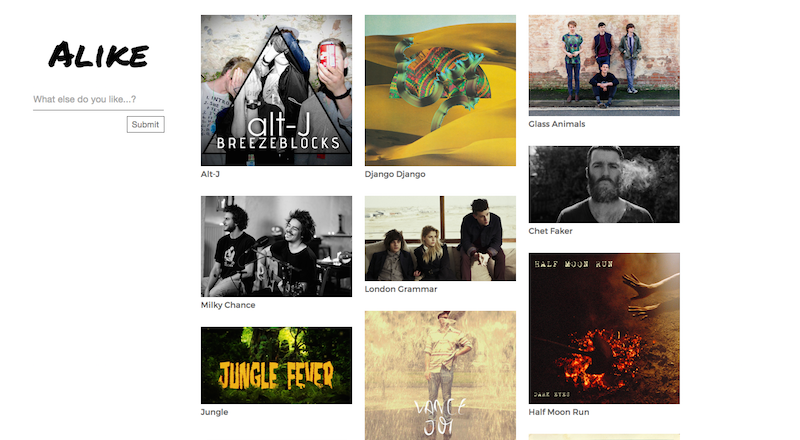
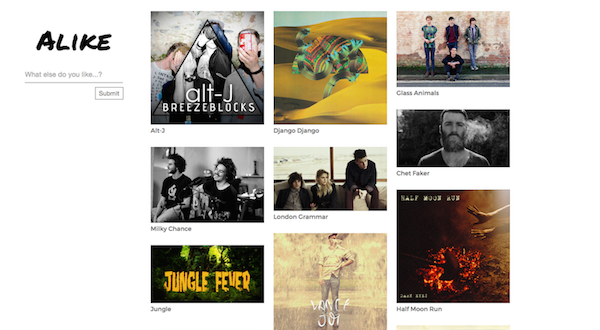
Styles and adds more projects

diff --git a/client/data/siteData.js b/client/data/siteData.js
@@ -10,7 +10,23 @@
 
     var service = { };
 
-    service.about = "I am full-stack JavaScript engineer passionate about building well-designed products that improve people's lives and am well versed with all stages of development, from initial product ideation to deployment."
+    service.about = "I am full-stack JavaScript engineer passionate about building well-designed products that improve people's lives. I'm well versed with all stages of development, from initial product ideation to deployment."
+
+    service.social = [
+      {
+        title: 'GitHub',
+        link: 'https://github.com/edoecohen'
+      },
+      {
+        title: 'LinkedIn',
+        link: 'https://www.linkedin.com/in/edoecohen'
+      },
+      {
+        title: 'Twitter',
+        link: 'https://twitter.com/edoecohen'
+      },
+
+    ]
 
     service.projects = [
       {
@@ -30,18 +46,52 @@
       {
         title:    'Live',
         details:  "Live is a mobile app for concert reviews. Users can rate live shows they've attended, provide reviews and find the best live acts.",
-        stack:    ['Ionic', 'Node', 'Postgres'],
+        stack:    ['Ionic', 'Node', 'Postgres', 'Spotify API'],
         link:     'http://livereviews.herokuapp.com/#/',
         pic:      '../client/assets/pics/placeit.jpg'
       },
       {
         title:    'Alike',
         details:  "Alike is a music, film and literature recommendation engine. Tell Alike your favorite film, musician or author and it will make suggestions of similar artworks and artists.",
-        stack:    ['jQuery', 'Masonry'],
-        link:     'http://livereviews.herokuapp.com/#/',
+        stack:    ['jQuery', 'Masonry', 'TasteKid API', 'Bing API'],
+        link:     'http://edoecohen.github.io/alike/',
         pic:      '../client/assets/pics/Alike_2.png'
       },
-      
+      {
+        title:    'Countries & Capitals',
+        details:  "Website providing information about countries and their capitals around the world.",
+        stack:    ['Angular', 'GeoNames API'],
+        link:     'http://edoecohen.github.io/countries/',
+        pic:      '../client/assets/pics/Countries.png'
+      },
+      {
+        title:    'Portfolio',
+        details:  "Small experiment using Masonry to showcase some of my recent work.",
+        stack:    ['jQuery', 'Masonry'],
+        link:     'http://edoecohen.github.io/portfolio/',
+        pic:      '../client/assets/pics/Portfolio.png'
+      },
+      {
+        title:    'InstaSearch',
+        details:  "InstaSearch allows you to quickly search Instagram for the most recent images of a given keyword.",
+        stack:    ['Angular', 'Instagram API'],
+        link:     'http://edoecohen.github.io/instasearch/',
+        pic:      '../client/assets/pics/Instasearch.png'
+      },
+      {
+        title:    'Zionism 101',
+        details:  "Colorful quiz testing the user's knowledge of Israel's historic leaders using the artwork of Amit Shimoni.",
+        stack:    ['jQuery'],
+        link:     'http://edoecohen.github.io/zionism-101/',
+        pic:      '../client/assets/pics/Zionism.png'
+      },
+      {
+        title:    'Shopping List',
+        details:  "Will simply make you want to shop.",
+        stack:    ['jQuery'],
+        link:     'http://edoecohen.github.io/shopping-list/',
+        pic:      '../client/assets/pics/Shopping.png'
+      },
 
 
     ];

diff --git a/client/home/home.html b/client/home/home.html
@@ -1,15 +1,23 @@
+<!-- ABOUT ME -->
 <section class='section'>
 	<h1>About Me</h1>
 	<p>{{ vm.data.about }}</p>
+	<div class='findMe'>
+		<p>You can find me here:</p>
+		<ul>
+			<li ng-repeat='social in vm.data.social'><a href="{{ social.link }}" target="_blank">{{ social.title }}</a></li>
+		</ul>
 </section>
 
+
+<!-- PROJECTS -->
 <section class='section' id='projects'>
 	<h1>Projects</h1>
 	<div ng-repeat='project in vm.data.projects' class='project'>
 		
 		<div class='pic'>
 			<a href='{{ project.link }}' target='_blank'>
-				<img ng-src='{{ project.pic }}' />
+				<img ng-src='{{ project.pic }}' ng-click='thisFun()' />
 			</a>
 		</div>
 		<div class='details'>
@@ -24,7 +32,7 @@
 
 <section class='section' id='experience'>
 	<h1>Experience</h1>
-	<div ng-repeat='project in vm.data.projects' class='project'>
+	<!-- <div ng-repeat='project in vm.data.projects' class='project'>
 		
 		<div class='pic'>
 			<a href='{{ project.link }}' target='_blank'>
@@ -38,5 +46,5 @@
 			</ul>
 			<p>{{ project.details }}</p>
 		</div>
-	</div>
+	</div> -->
 </section>

diff --git a/client/assets/styles/app.css b/client/assets/styles/app.css
@@ -66,6 +66,24 @@ a:hover, a:visited, a:focus {
   margin-left: 33%;
 }
 
+/* ABOUT ME */
+.findMe p, .findMe ul, .findMe ul li  {
+  display: inline-block;
+}
+
+.findMe ul {
+  padding-left: 0;
+  margin-left: 10px;
+}
+
+.findMe li {
+  margin-right: 15px;
+}
+
+.findMe li a {
+  color: #2F5271;
+}
+
 /* PROJECTS */
 .project {
   min-height: 230px;
@@ -76,6 +94,7 @@ a:hover, a:visited, a:focus {
   max-width: 400px;
   max-height: 400px;
   margin-right: 20px;
+  border: 1px solid #E8E8E8;
 }
 
 .project h1 {
